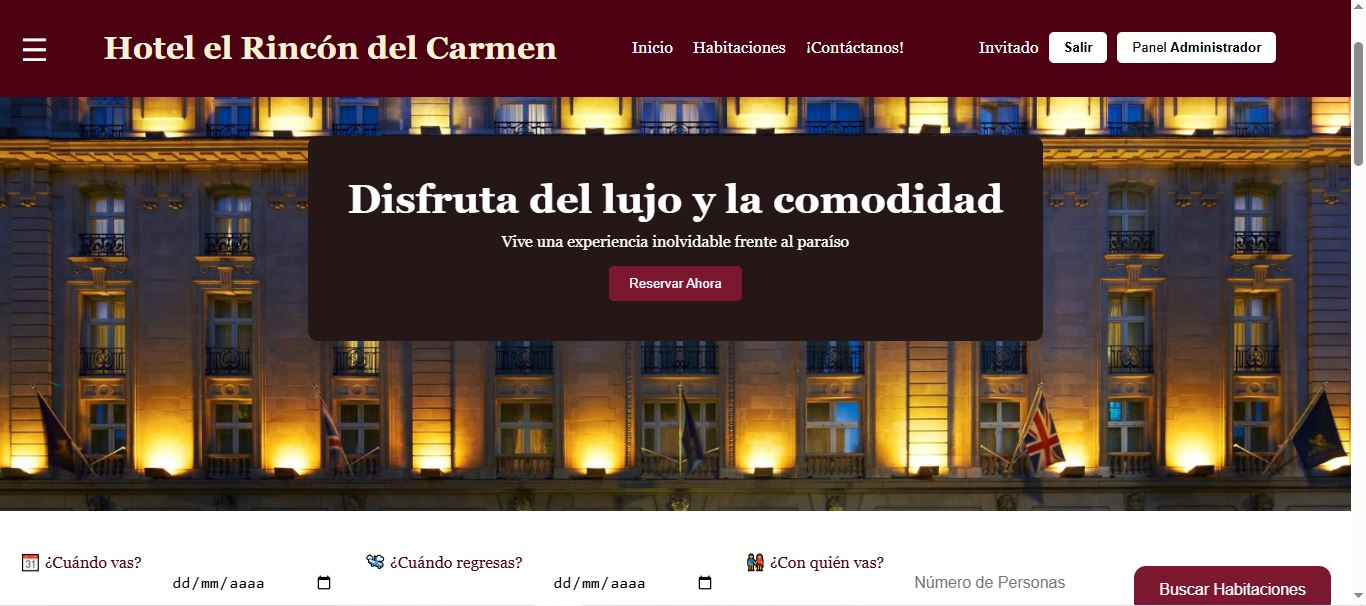
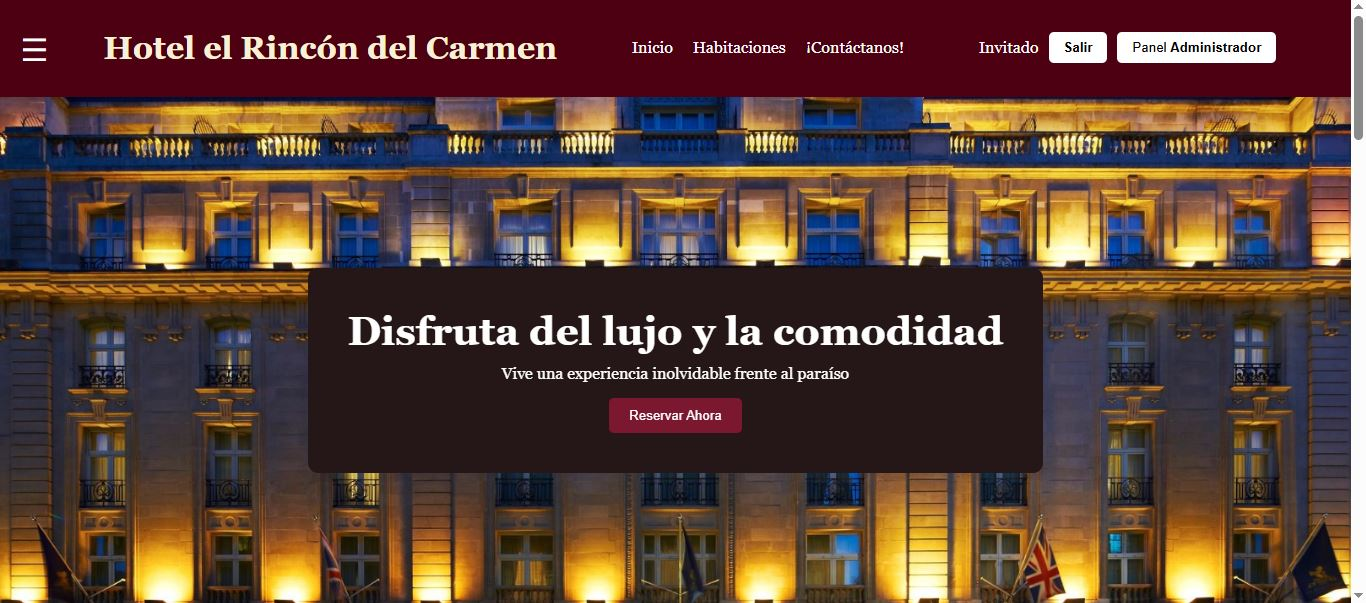
docs: :memo: terminé el read me
terminé el read me

diff --git a/js/reservas.js b/js/reservas.js
@@ -53,9 +53,7 @@ let reservas =
 JSON.parse(localStorage.getItem("reservas")) || [];
 
 
-// -------------------------
 // CALCULAR NOCHES
-// -------------------------
 
 function calcularNoches() {
 
@@ -69,11 +67,7 @@ function calcularNoches() {
   return noches;
 }
 
-
-// -------------------------
 // CALCULAR PRECIO
-// -------------------------
-
 function precio(noches) {
 
   let cantidad = habitacion.precio;
@@ -83,10 +77,7 @@ function precio(noches) {
   return resultado;
 }
 
-
-// -------------------------
 // VALIDAR SOLAPAMIENTO
-// -------------------------
 
 function haySolapamiento(
   nuevaEntrada,
@@ -119,10 +110,7 @@ function haySolapamiento(
   return false;
 }
 
-
-// -------------------------
 // REGISTRAR RESERVA
-// -------------------------
 function verificarSesion(){
 
     const usuarioActivo = JSON.parse(
@@ -301,7 +289,6 @@ function cancelarReserva(idReserva) {
     return JSON.parse(localStorage.getItem("reservas")) || [];
   }
 
-<<<<<<< HEAD
   export function guardarReserva(reserva) {
     const reservas=obtenerReservas();
     reservas.push(reserva);
@@ -312,17 +299,3 @@ botonReserva.addEventListener(
   "click",
   registrarReserva
 );
-=======
-
-// Obtener reserva con barra buscadora
-/* export function obtenerReservas() {
-  return JSON.parse(localStorage.getItem("reservas")) || [];
-}
-
-export function guardarReserva(reserva) {
-  const reservas=obtenerReservas();
-  reservas.push(reserva);
-
-  localStorage.setItem("reservas", JSON.stringify(reservas));
-} */
->>>>>>> 75509ff7f2dc30dabaa494a39eac8d050cf8f460

diff --git a/js/admin.js b/js/admin.js
@@ -1,4 +1,3 @@
-<<<<<<< HEAD
 const usuarioActivo = JSON.parse(
   localStorage.getItem("usuarioActivo")
 );
@@ -118,23 +117,3 @@ function editarReserva(id) {
   mostrarReservas();
 
 }
-=======
-/* function irAdmin() {
-    const usuarioActual=JSON.parse(localStorage.getItem("usuarioActual"));
-
-        if(!usuarioActual){
-            alert("Debes iniciar sesión");
-            window.location.href="login.html";
-            return;
-        }
-
-        if(usuarioActual.email !== "admin@hotel.com"){
-            alert("No tienes permisos de administrador");
-            return;
-        }
-
-        window.location.href="admin.html";
-}
-
-window.irAdmin=irAdmin; */
->>>>>>> 75509ff7f2dc30dabaa494a39eac8d050cf8f460

diff --git a/index.html b/index.html
@@ -37,7 +37,7 @@
 
         <nav class="navbar">
             <a href="index.html">Inicio</a>
-            <a href="reservas.html">Habitaciones</a>
+            <a href="catalogo.html">Habitaciones</a>
             <a href="contacto.html">¡Contáctanos!</a>
         </nav>
 
@@ -54,7 +54,7 @@
             <h2>Disfruta del lujo y la comodidad</h2>
             <p>Vive una experiencia inolvidable frente al paraíso</p>
 
-            <a href="reservas.html"><button>Reservar Ahora</button></a>
+            <a href="catalogo.html"><button>Reservar Ahora</button></a>
         </div>
     </section>
 

diff --git a/js/storage.js b/js/storage.js
@@ -200,16 +200,3 @@ if (panelAdmin) {
   }
 
 }
-/* function logout() {
-    localStorage.removeItem("usuarioActivo");
-    alert("Sesión cerrada");
-    setTimeout(()=>{
-        window.location.href="login.html";
-    }, 1000);
-}
-
-// Logout
-function logout() {
-    localStorage.removeItem("usuarioActivo");
-    window.location.href="login.html";
-} */

diff --git a/habitacion.html b/habitacion.html
@@ -49,7 +49,7 @@
     <section id="card-completa"></section>
     <footer class="bottom-nav">
         <a href="index.html">🏠<br>Inicio</a>
-        <a href="reservas.html">🛏<br>Reservas</a>
+        <a href="reservas.html">🛏<br>Habitaciones</a>
         <a href="contacto.html">📍<br>Contacto</a>
     </footer>
 </body>

diff --git a/README.md b/README.md
@@ -32,7 +32,7 @@ Los usuarios pueden:
 - Seleccionar fecha de entrada.
 - Seleccionar fecha de salida.
 - Indicar cantidad de personas.
-![barra_buscadora](assets/images/README%20capturas/landingpage.JPG)
+![barra_buscadora](assets/images/README%20capturas/searchbar.JPG)
 
 El sistema:
 
@@ -41,7 +41,7 @@ El sistema:
 - Calcula el precio total.
 - Evita reservas solapadas.
 - Muestra habitaciones no disponibles.
-![Landing_Page](assets/images/README%20capturas/landingpage.JPG)
+![resultados_filtrados](assets/images/README%20capturas/resultados%20filtrados.JPG)
 
 ## Sistema de Usuarios
 ### Registro de usuarios
@@ -54,6 +54,7 @@ Campos requeridos:
 - Teléfono
 - Correo electrónico
 - Contraseña
+![registro](assets/images/README%20capturas/registro.JPG)
 
 ### Validaciones implementadas
 - Campos obligatorios.
@@ -63,12 +64,14 @@ Campos requeridos:
 - Teléfono solo numérico.
 - Identificación única.
 - Correos duplicados no permitidos.
+![validaciones_registro](assets/images/README%20capturas/validaciones%20registro.JPG)
 
 ### Login y Logout
 - Inicio de sesión mediante LocalStorage.
 - Persistencia de sesión.
 - Cierre de sesión.
 - Visualización del usuario actual.
+![localStorage](assets/images/README%20capturas/localstorage.JPG)
 
 ### Sistema de Reservas
 - Reserva de habitaciones.
@@ -76,11 +79,13 @@ Campos requeridos:
 - Almacenamiento en LocalStorage.
 - Evita reservas en fechas ocupadas.
 - Asociación de reservas con el usuario autenticado.
+![reservas](assets/images/README%20capturas/reservas.JPG)
 
 ### Panel de Administrador
 - Acceso exclusivo para administrador.
 - Validación de permisos.
 - Redirección protegida.
+![admin_boton](assets/images/README%20capturas/admin%20perfil.JPG)
 
 ### Responsive Design
 
@@ -92,6 +97,7 @@ El proyecto fue optimizado principalmente para dispositivos móviles:
 - Imágenes optimizadas.
 - Navbar responsive.
 - Prevención de scroll horizontal.
+![responsive](assets/images/README%20capturas/responsive.JPG)
 
 ### Tecnologías Utilizadas
 - HTML5
@@ -101,6 +107,7 @@ El proyecto fue optimizado principalmente para dispositivos móviles:
 - Responsive Design
 - Flexbox
 - CSS Grid
+![lenguajes](assets/images/README%20capturas/lenguajes.jpg)
 
 ### Estructura del Proyecto
 Proyecto_Hotel_Rincon_del_Carmen_Natalia_Rolon_Sara_Colmenares
